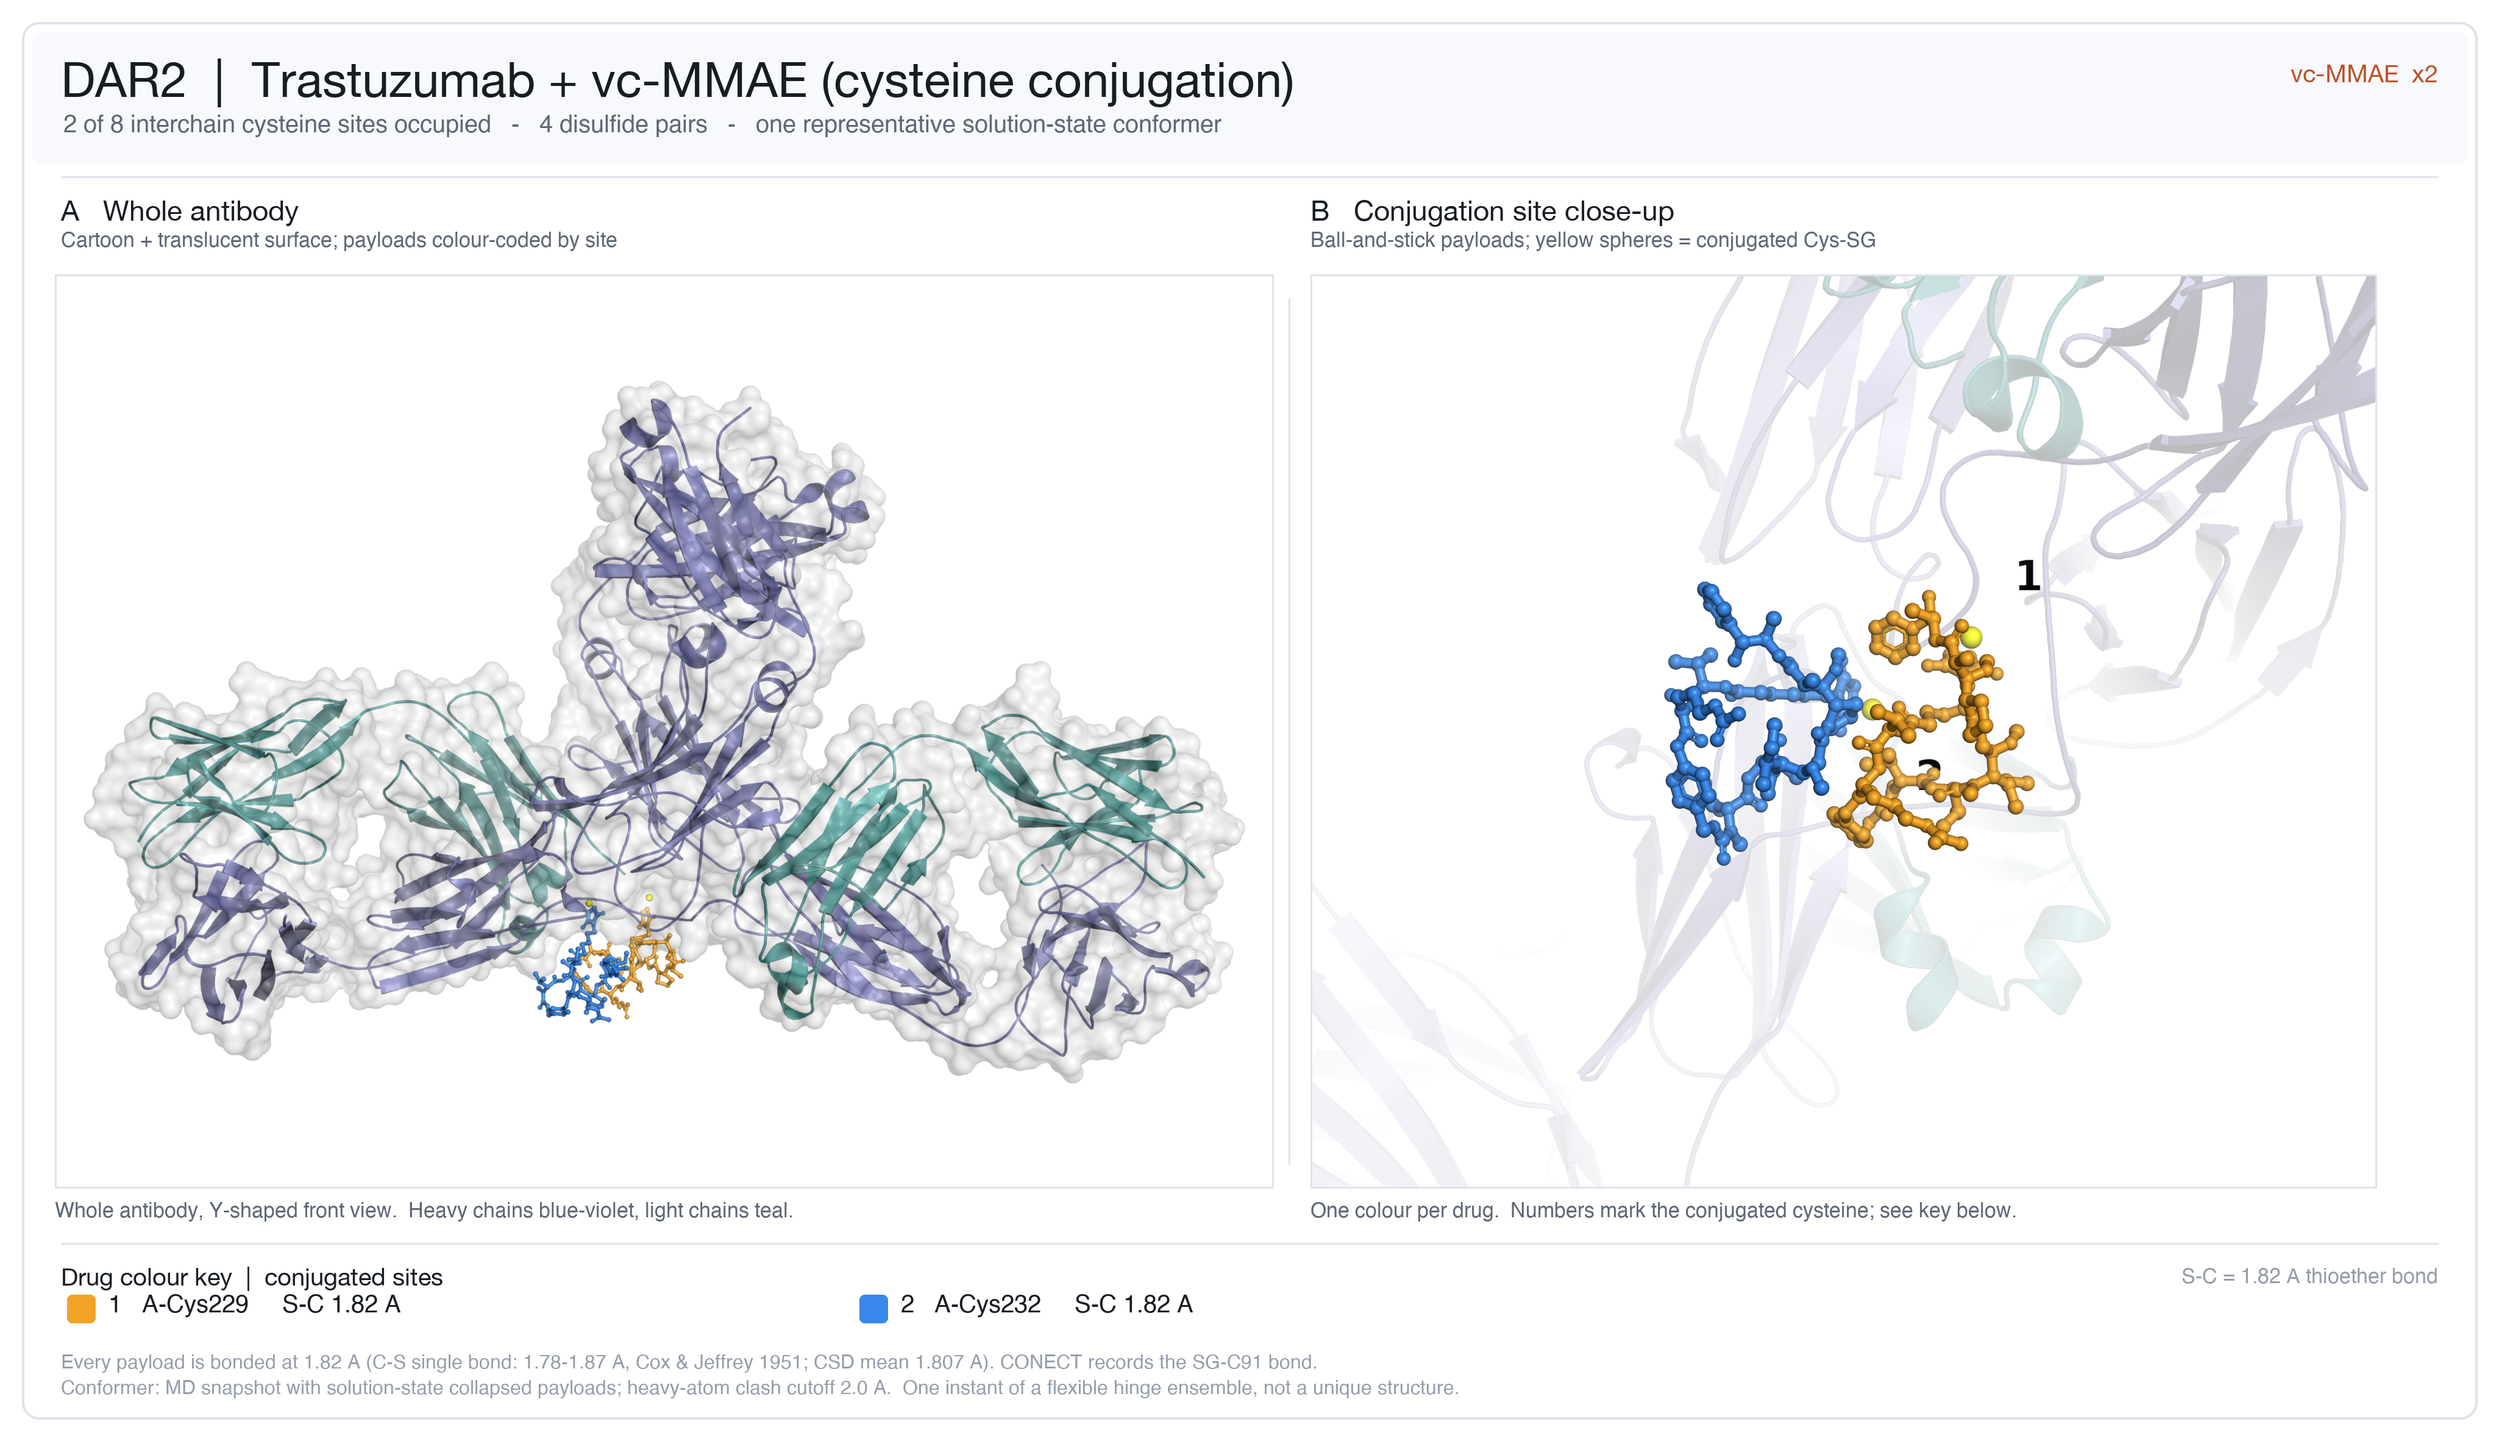
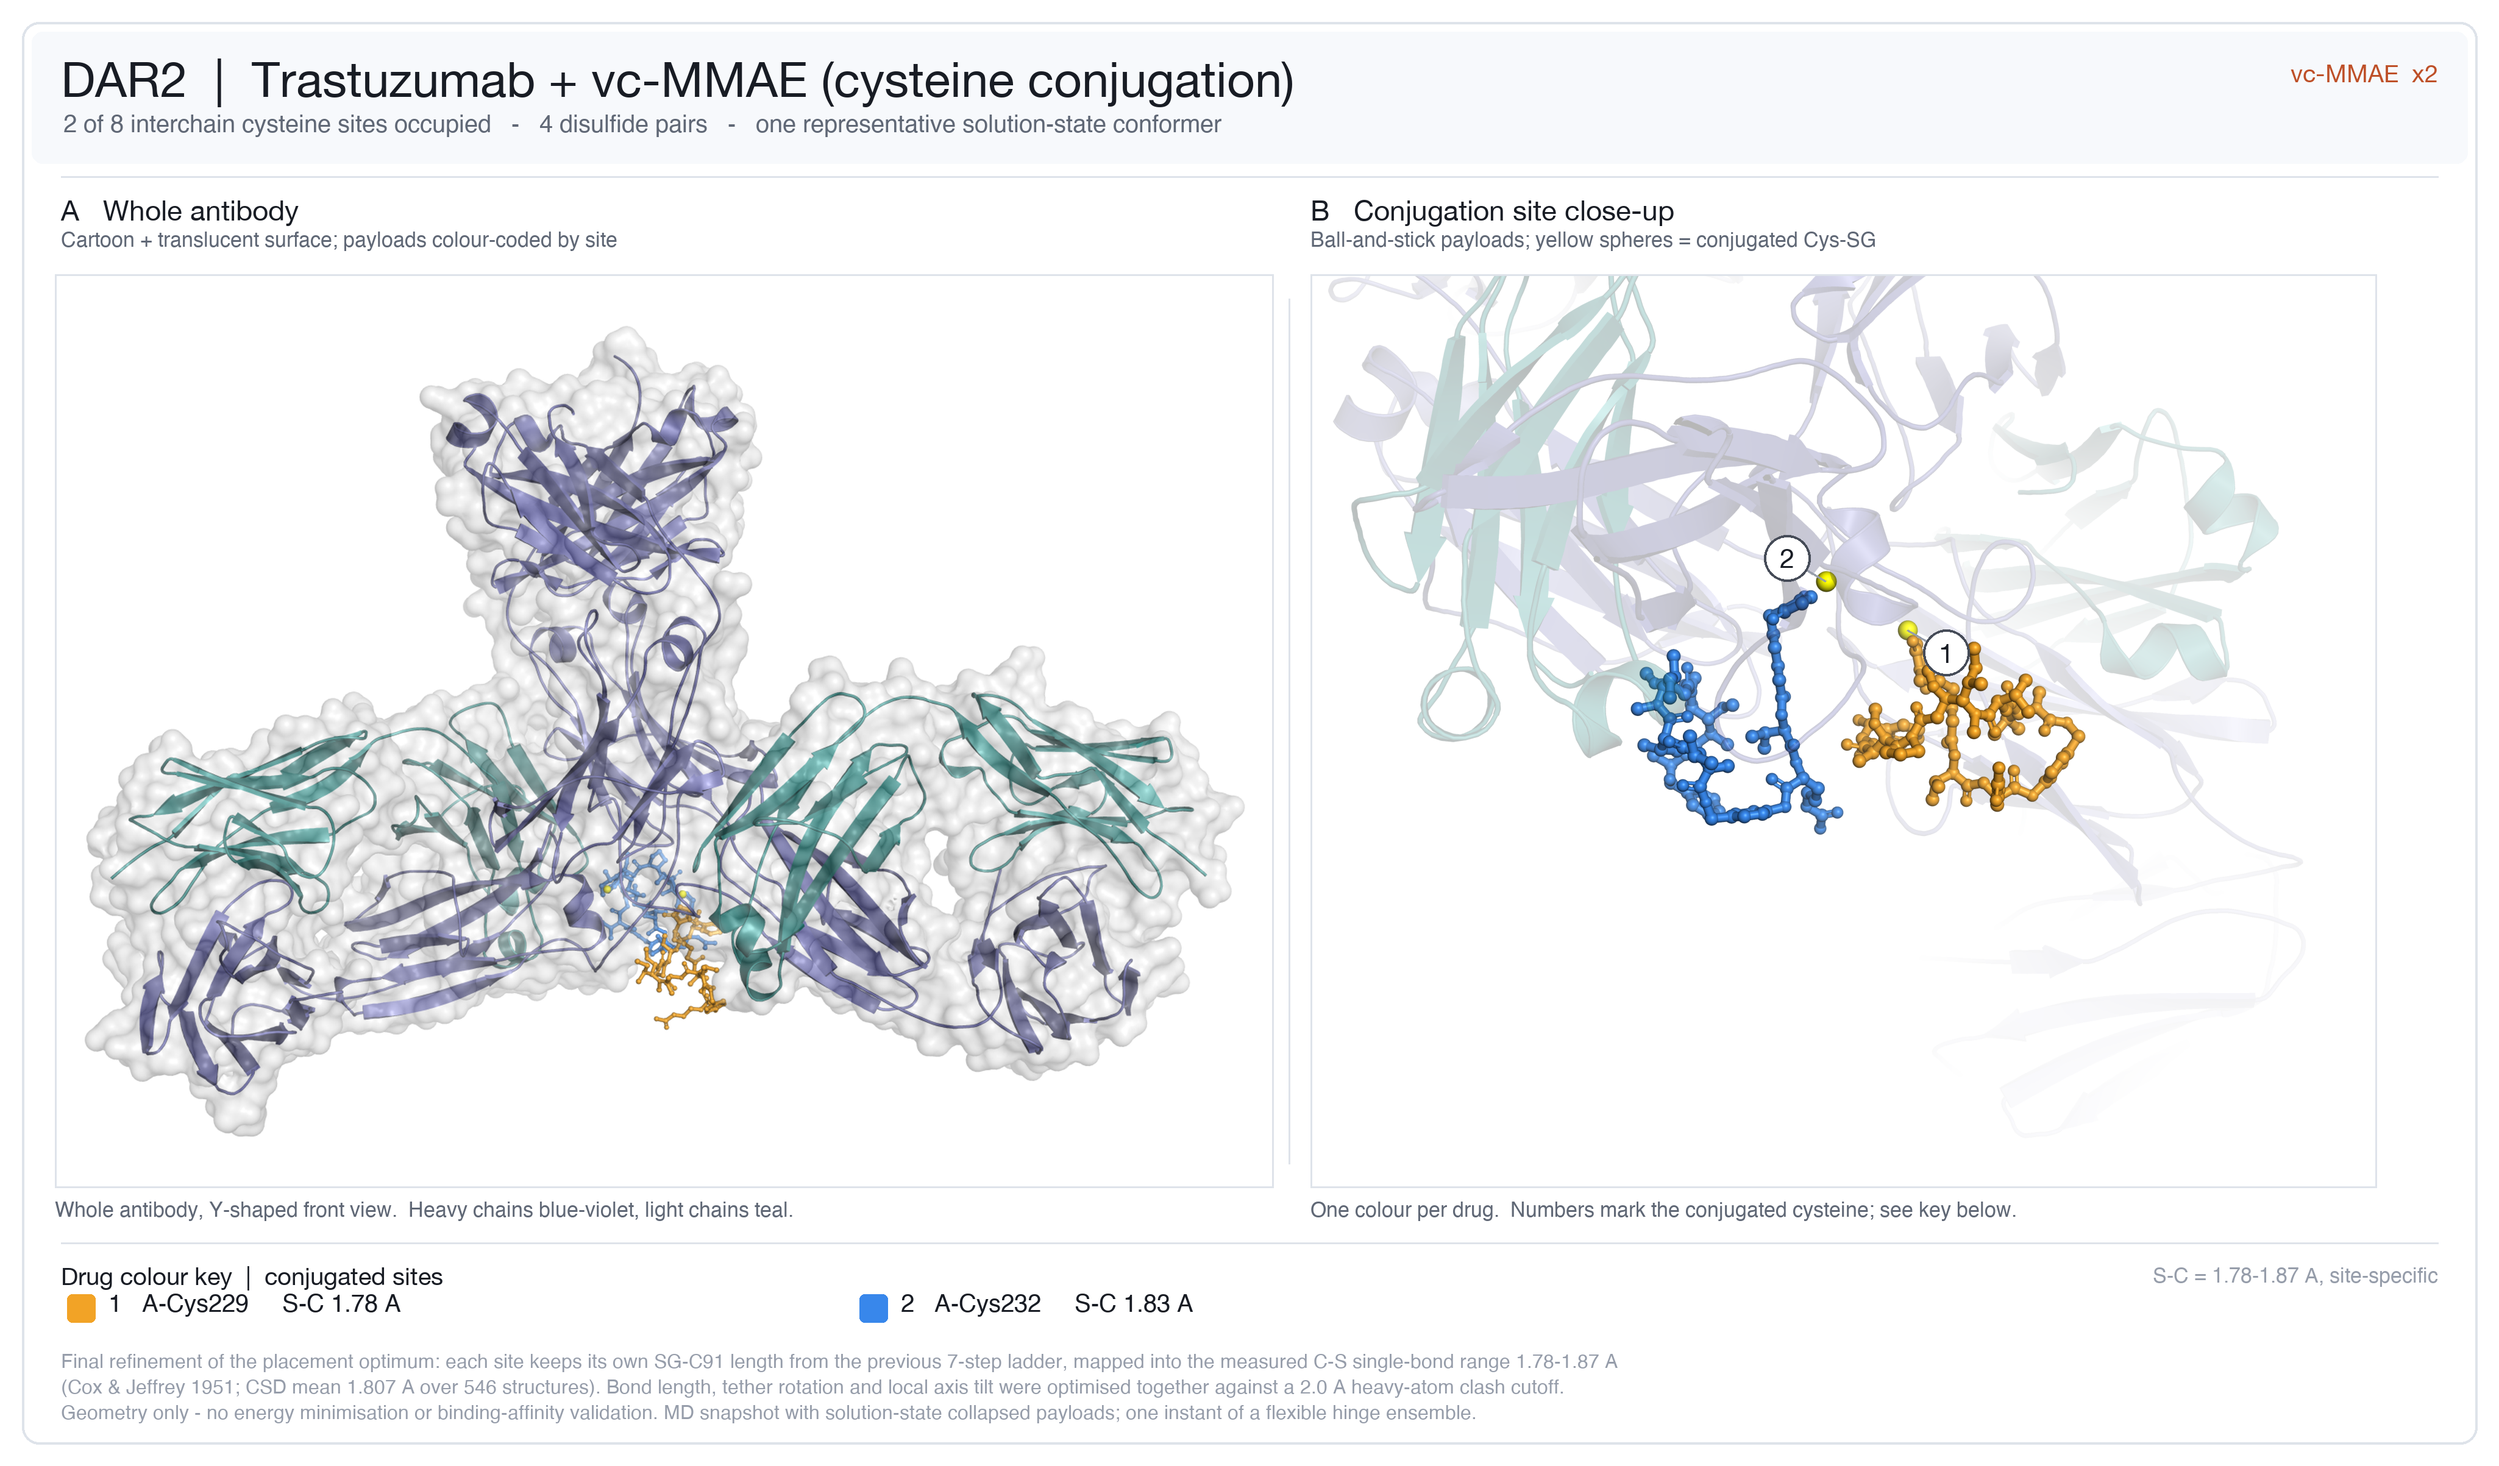
figs: final joint optimisation of bond length and payload pose at real C-S lengths

diff --git a/README.md b/README.md
@@ -75,15 +75,23 @@ pairs a whole-antibody view (cartoon + translucent surface) with a close-up
 of the conjugation cluster. Heavy chain: blue-violet; light chain: teal;
 yellow spheres mark the conjugated cysteine SG. Each vc-MMAE molecule carries
 its own colour, keyed at the bottom of the figure to its conjugation site.
-Only sites that actually carry a payload in the structure are labelled -
+Only sites that actually carry a payload in the structure are numbered -
 unconjugated cysteines stay unmarked.
 
-Every payload is bonded at an SG-C91 distance of 1.82 A, the standard
-Cys-SG / maleimide thioether bond (C-S single bonds measure 1.78-1.87 A;
-Cox & Jeffrey, Proc. R. Soc. A 1951, and a CSD mean of 1.807 A over 546
-structures). The bond is written into each PDB's CONECT records. These
-structures were regenerated with that fixed bond length and a 2.0 A
-heavy-atom clash cutoff; no bond-length tolerance is used.
+These figures show the final refinement of the placement step's optimised
+structures. That step had selected, for every site, one MD snapshot, one
+outward direction, one compact payload conformer and one of seven SG-C91
+lengths between 1.70 and 2.40 A. That window is wider than a real thioether
+bond, so the final step maps each site's own winning length into the measured
+C-S single-bond range 1.78-1.87 A (Cox & Jeffrey, Proc. R. Soc. A 1951; CSD
+mean 1.807 A over 546 structures), then re-optimises bond length, rotation
+about the tether and small tilts of the bond axis together against a 2.0 A
+heavy-atom clash cutoff. Every site keeps its own length (1.780-1.870 A across
+the seven figures) rather than being pinned to one value. Earlier versions
+either fixed every bond at 1.82 A or used the unjustified 1.70-2.40 A window
+as if it were a bond length; both are superseded. This is a geometry
+refinement only - no energy-based minimisation or binding-affinity validation
+has been performed.
 
 ![DAR 1 - one payload](examples/trop_adc/results_hinge/pymol_images/adc_DAR1.png)
 
